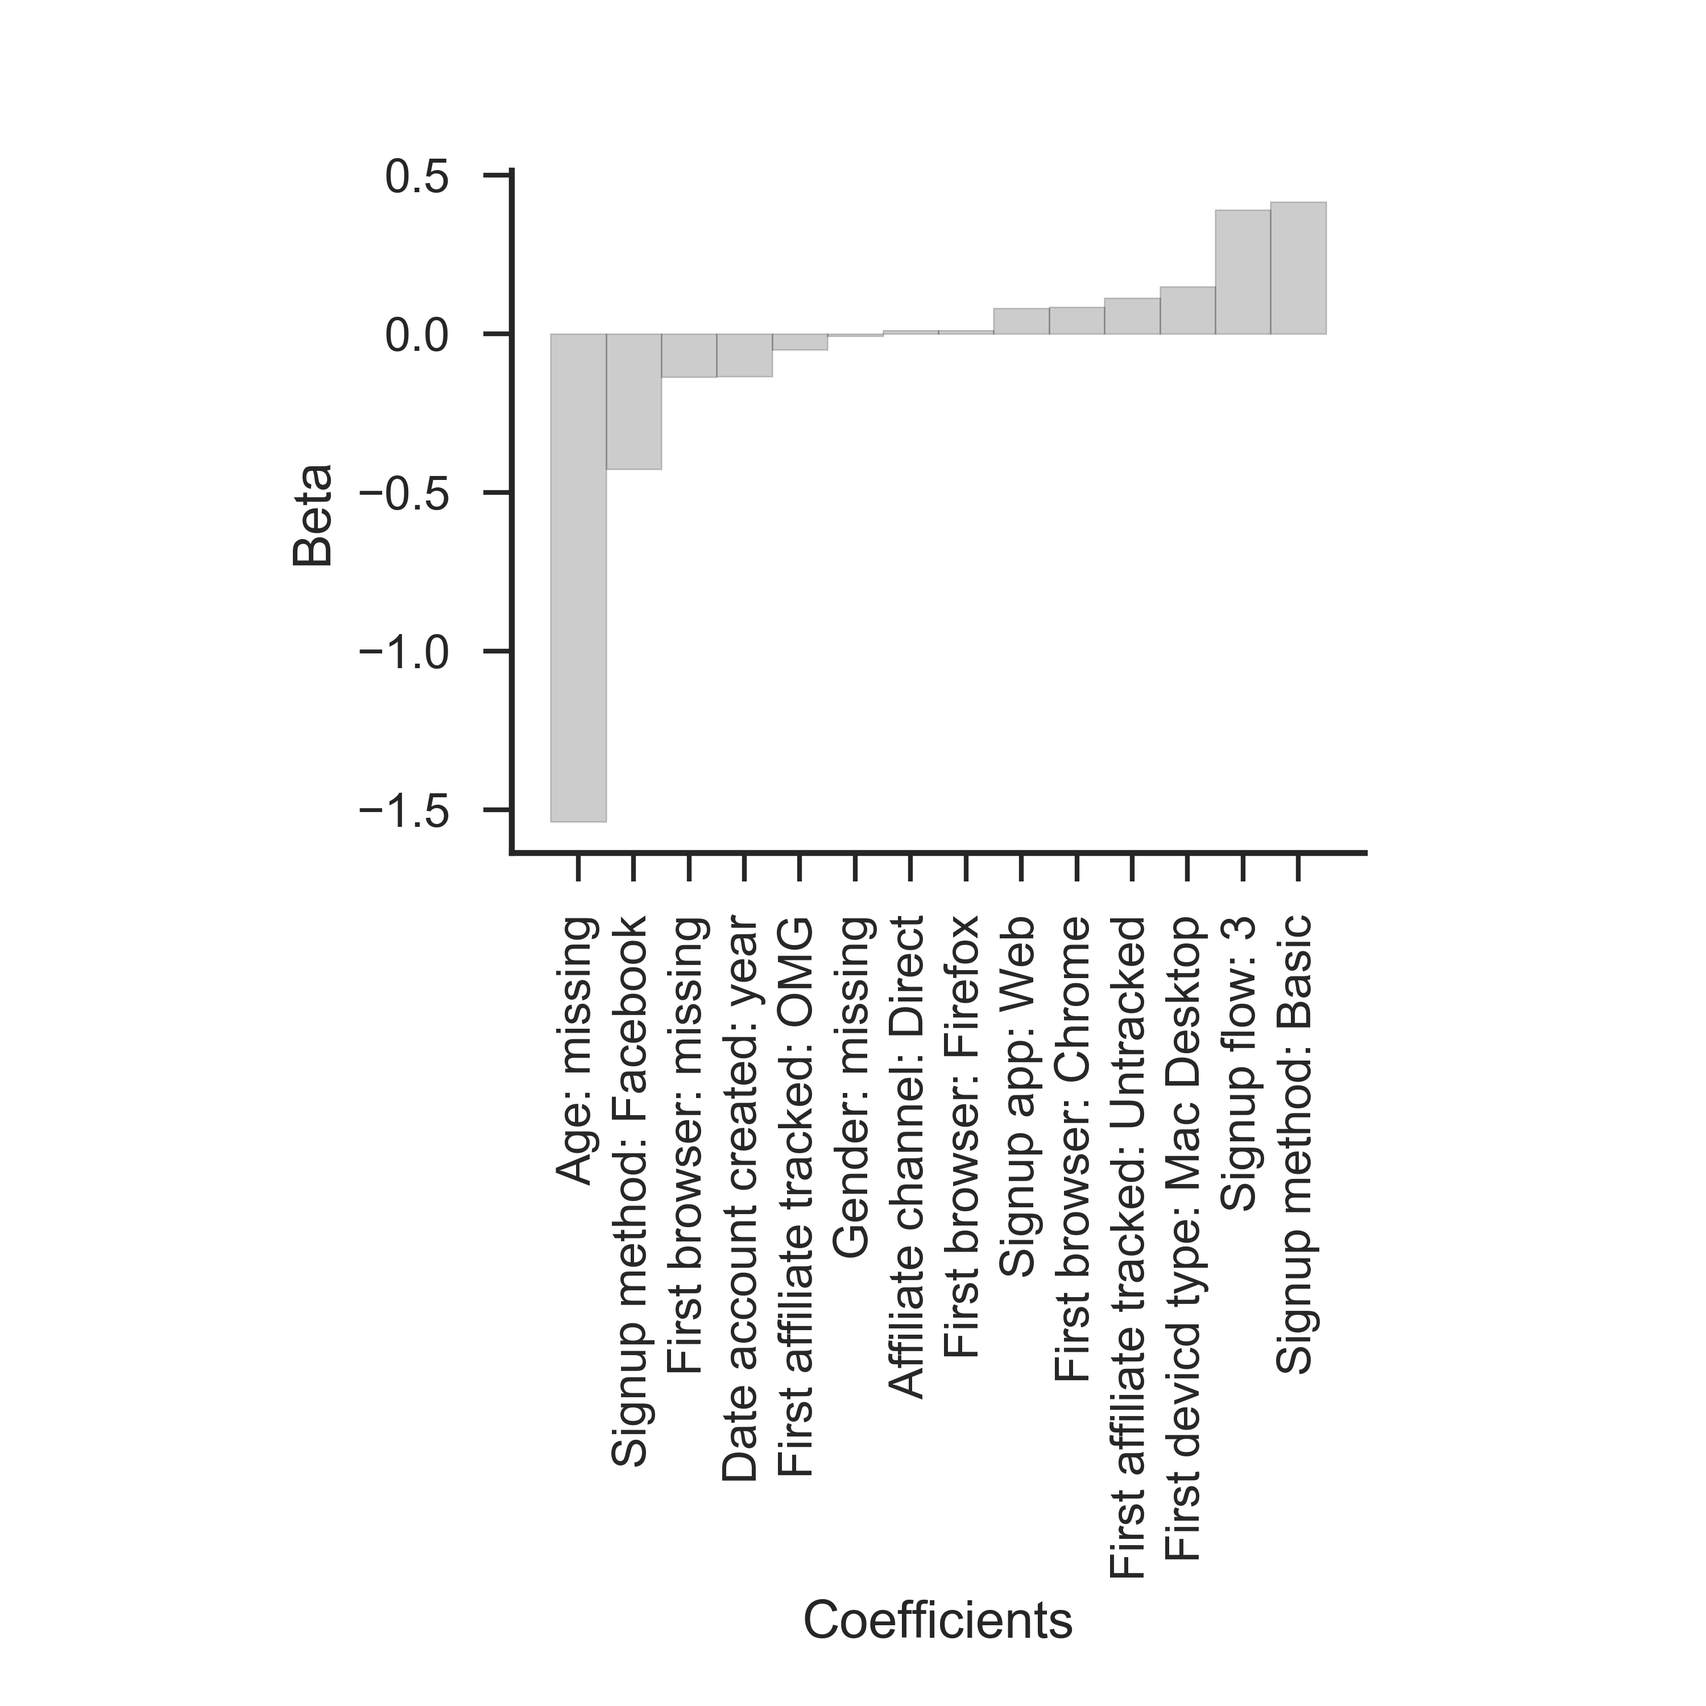
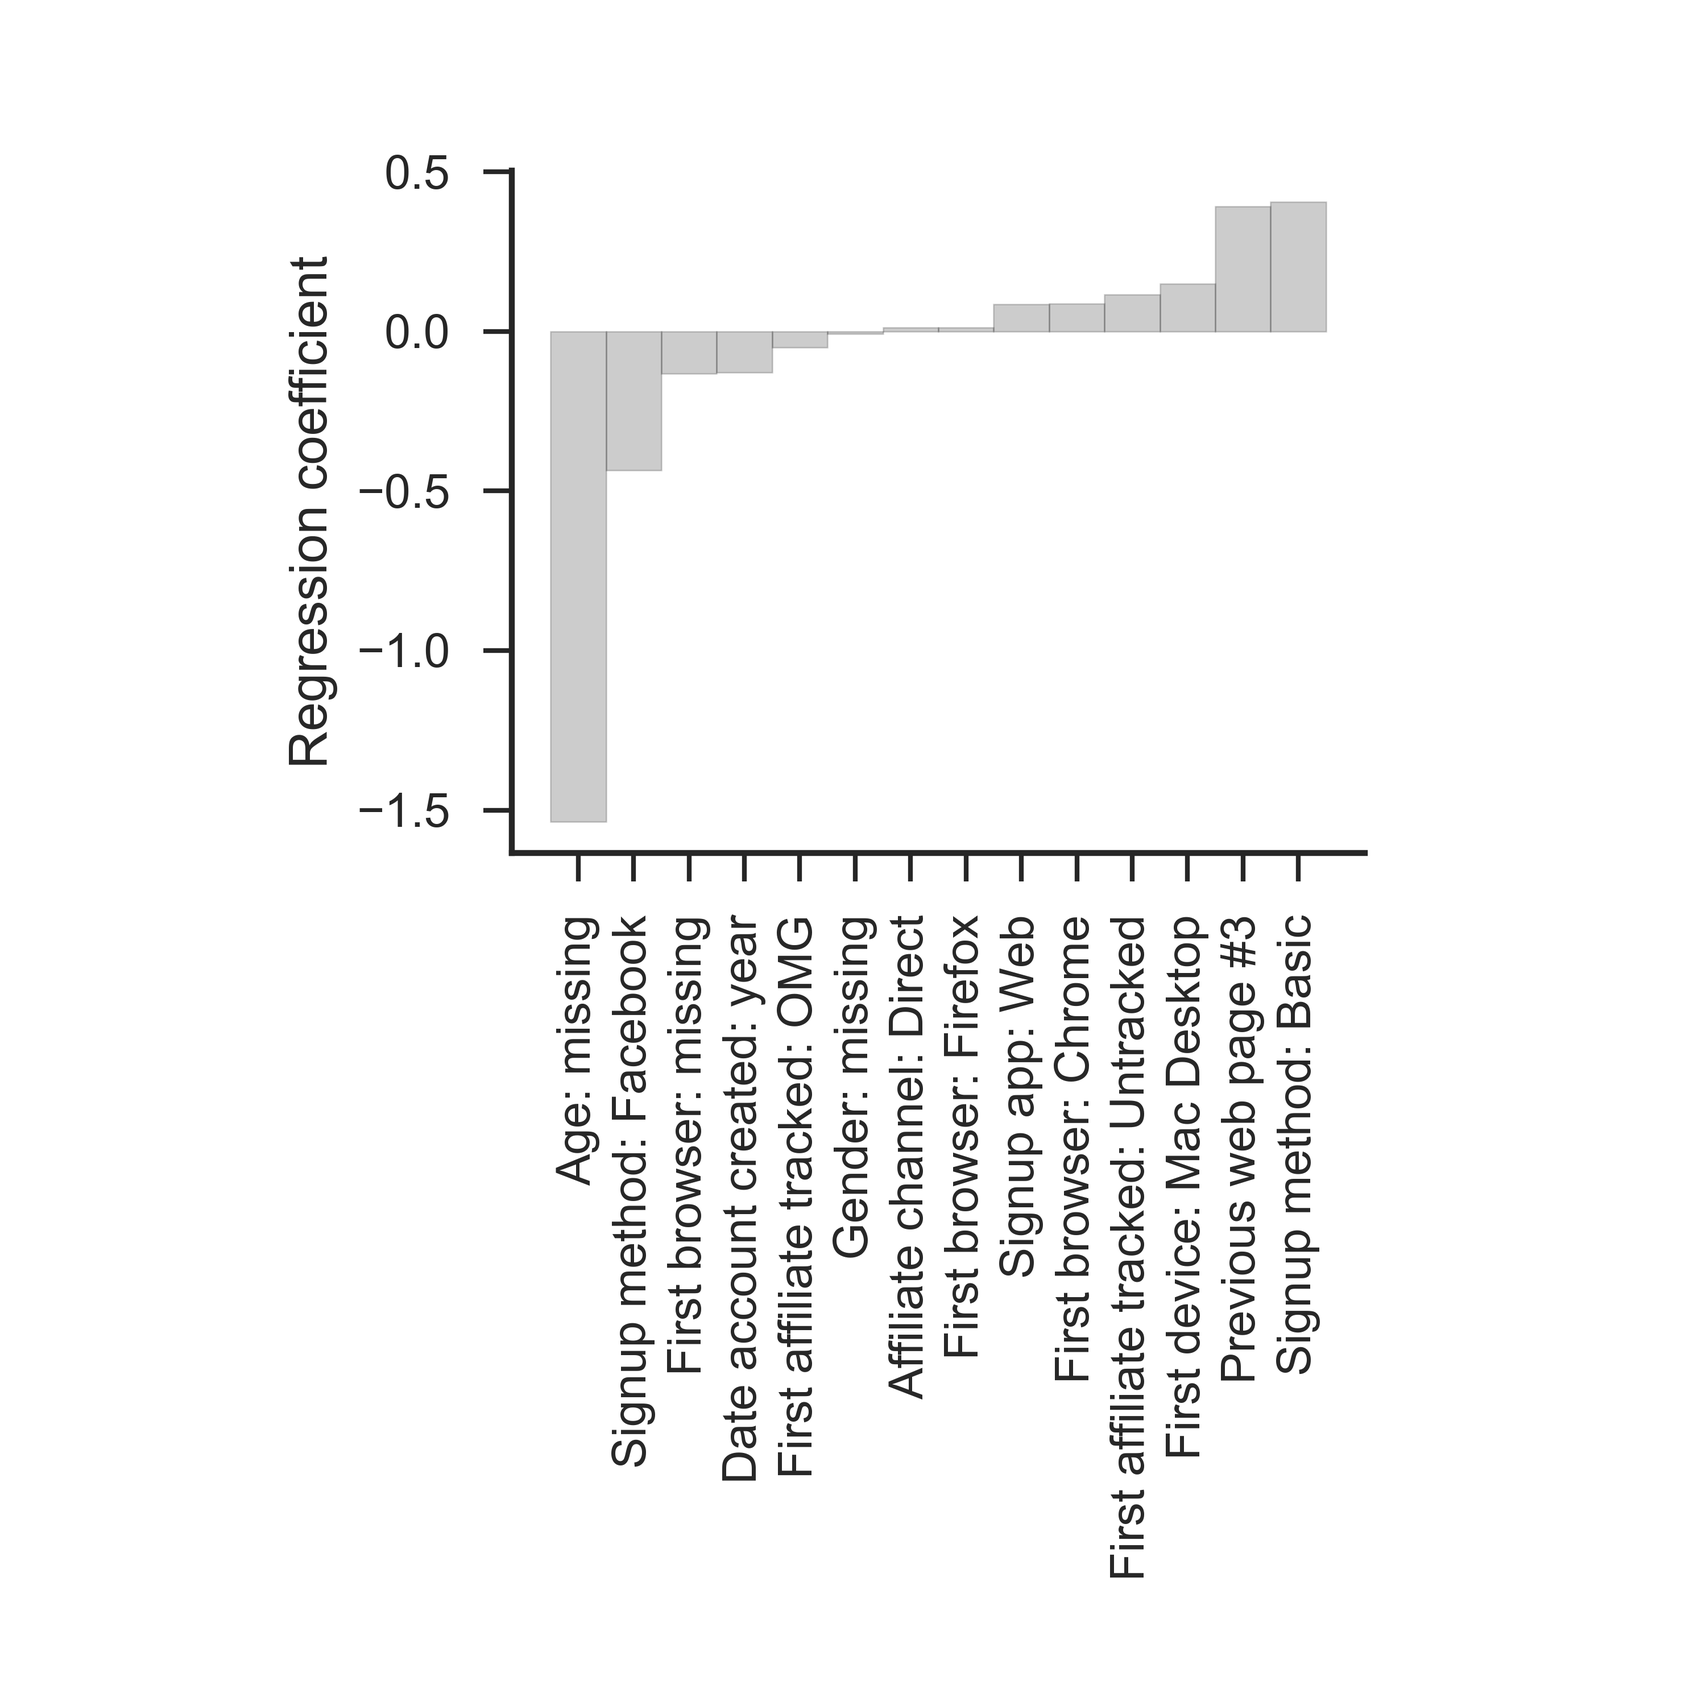
updated blog

diff --git a/_posts/2017-6-6-Kaggle-airbnb.md b/_posts/2017-6-6-Kaggle-airbnb.md
@@ -26,63 +26,53 @@ I formatted and cleaned the user information to be suitable for modeling.  I che
 For the web sessions data, I encoded each action name, type, and detail as a separate feature.  These were binary variables to indicate whether or not the user took a particular action at any time.  I also explored versions that considered the number of times a user took each action and the total time spent on each action, but found no benefit of the added information.
 
 
-# Predicting whether or not a new user will book..
+# Predicting whether a new user will book.
 
-I first trained a model to predict whether or not users placed any booking regardless of the country destination (a binary classification problem).  From a modeling perspective, this simplifies the interpretation of model fits and provide some initial intuition about which features are most important.   From a business perspective, understanding what factors predict whether a user will book can provide valuable insight for targeting potential users even in the absence of destination information.
+I first trained a model to predict whether or not users placed any booking regardless of the country destination (a binary classification problem).  To validate the models, I held out the last 10% of the training data set collected chronologically (21,345 users).  This followed the test data format which was collected immediately after the training set and ensured that predction accuracy was not inflated by using future data to predict past obsrevations.  The remaining 90% of the data was used for training.  Because the data are unbalanced, I used area under the ROC (auROC) curve for the holdout set to as an error metric to compare models.
 
-To validate the models, I held out the last 10% of the training data set collected chronologically (21,345 users).  This followed the test data format which was collected immediately after the training set and ensured that predction accuracy was not inflated by using future data to predict past obsrevations.  The remaining 90% of the data was used for training.  Because the data are unbalanced, I used area under the ROC (auROC) curve for the holdout set to as an error metric to compare models.
+For the binary classification, I used L1-regularized logistic regression because it can be trained reasonably fast, provides  interpretable coefficients about feature importance, and establishes a baseline linear model against which more complex algorithms can be compared.  The regularization term penalizes the model for higher coefficient values (in particular non-zeros) to prevent overfitting.  The regularization term was selected using 5-fold cross validation over a range of values.
 
-For the binary classification, I used L1-regularized logistic regression because it can be trained reasonably fast, provides  interpretable coefficients about feature importance, and establishes a baseline linear model against which more complex algorithms can be compared.  The L1-regularization term was selected using 5-fold cross validation over a range of values.
-
-The logistic regression model accurately predicted whether or not a user would book a destination for 71.4% of the holdout dataset, which exceeds chance (62% in the holdout set).  Accordingly, the auROC curve was 0.75.  In the interest of time, I did not attempt to bootstrap this for a p-value, but the strong performance with a reasonably large holdout set gives some confidence that the model is useful for prediction.  This was later verified by submitted results to the Kaggle website.
-
-The resulting coefficients provide insight about which users will book a destination (Figure 4). For example, users who reach Airbnb via a particular web page (actual URL concealed) or use a Mac Desktop are more likely to book a destination.  Conversely, disengaged users that failed to provide demographic information like gender and age were less likely to book.  These results could inform decisions about where to target advertising for new users or be used to evaluate the success of an ongoing campagin.  
+The logistic regression model accurately predicted whether or not a user would book a destination for 71.4% of the holdout dataset, which exceeds chance (62% in the holdout set).  Accordingly, the auROC curve was 0.75.  The resulting coefficients provide insight about which users will book a destination (Figure 4). For example, users who reach Airbnb via a particular web page (actual URL concealed) or use a Mac Desktop are more likely to book a destination.  Conversely, disengaged users that failed to provide demographic information like gender and age were less likely to book.
 
 ![Figure 4]({{ site.baseurl }}/images/beta_coefficient_histogram.png "Coefficient histogram.")
 
 
-# Predicting new booking destinations: 
+# Predicting booking destinations: 
 
-I next moved to the multiclass classification problem of predicting the actual country destination of that the users booked.  I used three algorithms with varying complexity and computational demands: one-versus-rest L1-regularized logistic regression, a boosted trees algorithm implented with XGBoost, and a multi-layer perceptron (MLP) artifical neural network implemented in with Keras. For model comparison, I used macro-averaged auROC which combines auROC for each class with equal weight regardless of the number of observations.  This ensured that my statistic was not dominated by the non-booking class.  I used confusion matrices to determine where the models were succeeding and failing. In addition, I monitored the normalized discounted cumulative gain (NDCG) score, the ranking quality metric used by Kaggle to evaluate submissions.
+I next moved to the multiclass classification problem of predicting the actual country destination of that the users booked.  I used three algorithms with varying complexity and computational demands. For model comparison, I used macro-averaged auROC which combines auROC for each class with equal weight regardless of the number of observations.  I used confusion matrices to determine where the models were succeeding and failing. I also monitored the normalized discounted cumulative gain (NDCG) score, the ranking quality metric used by Kaggle to evaluate submissions. The results are summarized at the end of this section.
 
 ## L1-regularized logistic regression
-I started with a one-versus-next L1-regularized logistic regression approach implemented in scikit-learn.  The model trains a family of logistic regression models to distinguish one class from all others, then chooses the class with the strongers probability.  Model performance is above chance as indicated by a macro auROC of X.  The confusion matrix provides some insight into where the model fails and suceeds.  The model is heavily biased to the NDF and US categories, so there is likely room for improvement.  
+I started with a one-versus-next L1-regularized logistic regression approach implemented in scikit-learn.  The model trains a family of linear classifiers to distinguish one class from all others, then chooses the class with the highest probability.  The L1-regularization model performance is above chance as indicated by a macro auROC of X.  The confusion matrix indicates that the model is heavily biased to the NDF and US categories.  
 
 ## XGBoost
-XGBoost is a tree ensembling method that learns a set of decision trees by adding new tree structures that improve a regularized objective function. Unlike logistic regression, XGBoost learns nonlinear decision bounds and is less sensitive to collinearity among features, missing values, or outliers.  The tradeoff is that the model is more complex and the complexity is reflected in an increased number of hyperparameters (e.g., number of trees, learning rate, etc).  I avoided time consuming hand tuning of hyperparameters by using randomized search with 5-fold cross validation.  
+XGBoost is a tree ensembling method that learns a set of decision trees by asking whether new tree structures will improve a regularized objective function. Unlike logistic regression, XGBoost learns nonlinear decision bounds, but relies on more hyperparameters (e.g., number of trees, learning rate, etc).  I avoided hand tuning of hyperparameters by using randomized search with 5-fold cross validation.  The resulting model  produced a notable improvement in auROC for the holdout dataset. XGBoost also provides an index of feature importance, computed as the reduction in impurity at each node averaged over all trees for each feature.  Unlike the linear model, the XGBoost model learned a nonlinear relationship between age and booking that was evident in the data.
 
-XGBoost produced significant improvements in auROC for the holdout dataset, suggesting that it learned generalizable nonlinear relationships beween the features and classes.  We can see in the confusion matrices that the improvement stems primarily from better distinguishing non-bookings and US bookings, but the model still poorly discriminates among non-US bookings.
+![Figure 5]({{ site.baseurl }}/images/xgb_feature_importance_barh.png "Age bins.")
 
-![Figure 5]({{ site.baseurl }}/images/airbnb_conf_mat.png "Confusion matrices.")
-
-XGBoost also provides an index of feature importance, computed as the reduction in impurity at each node averaged over all trees for each feature.  The results are relatively similar to the logistic regression model.  Unlike the linear model, however, age is by far the most informative feature in the dataset, suggesting that the XGBoost learned a nonlinear relationship between age and booking destination.  Indeed, the data suggest that bookings increase until ages 30-40 and then generally decline thereafter.
-
-![Figure 6]({{ site.baseurl }}/images/auROC.png "auROC histogram.")
-
-![Figure 7]({{ site.baseurl }}/images/pBook_age_bins.png "Age bins.")
-
+![Figure 6]({{ site.baseurl }}/images/pBook_age_bins.png "Age bins.")
 
 ## Neural networks: Multi-layer perceptron
-To try and improve the overall predictive accuracy, I next trained a multi-layer perceptron (MLP), a class of feedforward neural network models that learns non-linear combinations of features to transform the data into a space where they become lineary separable.  These models are very powerful, but are highly parameterized and require careful training for good results.  I wanted to test whether it could be used to outperform the boosted trees approach by learning novel combinations of features.
+Multi-layer perceptrons (MLP) are a class of feedforward neural network models that learns combinations of features to transform the data into a space where they become lineary separable.  These models are very powerful, but  highly parameterized and require careful training for good results.  I trained the model using mini-batch stochastic gradient descent implemented in Keras with a TensorFlow backend.  To efficiently select hyperparameters, I implemented a randomized search with 5-fold cross validation in parallel on a high-performance computing cluster.  The trained network outperformed both logistic regression and boosted trees on the holdout set.  This algorithm would be a great choice for situations in which high accuracy is paramount, but long training times are not an issue.  
 
-I trained the model using mini-batch stochastic gradient descent implemented in Keras with a TensorFlow backend.  To efficiently search the hyperparameter space, I implemented a randomized search with 5-fold cross validation in parallel on a high-performance computing cluster.  This allowed me to test large swaths of hyperparameter space in relatively little time (<5 hours for up to 300 samples simultaneously).  The hyperparameters included the learning rate, neurons per layer, number of hidden layers, activation functions (tanh, sigmoid, linear), dropout rate, momentum, batch size, and number of epochs.  I started by sampling a very broad range of hyperparameters, examined combinations of parameters that produced high cross-validated performance, and then gradually narrowed the search to refine the model fits.  Standard deviation over folds was used to monitor stability.
+![Figure 7]({{ site.baseurl }}/images/airbnb_conf_mat.png "Confusion matrices.")
 
-The neural network model slightly outperformed XGBoost, suggesting that it was able to learn some complex combinations of features without overfitting.  The confusion matrix again suggests slight improvements in discriminating non-bookings and US bookings, but still struggles distinguishing non-US bookings.  This algorithm would be a great choice for situations in which high accuracy is paramount, the combinations of features needed to improve performance is unclear, and long training times are not an issue.  
-
-# Final conclusions
-
-I used a variety of machine-learning approaches to predict where users will book their next destination on Airbnb and learn the features that are most predictive.  The final model was able to provided ranked predictions about where a new user would book that could be used to prioritize listings presented to users.  However, even the best multiclass model struggled to distingiush among non-US bookings and it may be necessary to collect additional user browsing information to boost the signal.  In addition to predictive power, feature selection tools revealed that age is a critical factor in whether a user would book as are the types of websites from which users reach Airbnb.  I also found that inclusion of web sessions data produced modest but reliable improvements in prediction accuracy, which would justify collecting this data to regularly updating models.
-
-For this data set, the nonlinear decision rules learned by the XGB and MLP algorithms improved performance over the linear regularized logistic regression model.  The XGB model was particularly impressive since the time necessary for fitting was quite fast even taking into accoutn the optimization of hyperparameters.  The MLP model ultimately provided the best performance, but took considerably longer to train.  The long training times were greatly reduced by parallelization on a computing cluster, making this an attractive option if a cluster is available.
-
-Using the MLP model, my final NDSG score on the Kaggle private leaderboard was 0.88209 - not too far from the winning score of 0.88697 (range = 0 to 1).  As noted on the Kaggle blog (LINK), the top models in this competition stacked and ensembled up to 15 models.  I explored one simple stacking model using predictions of the binary linear classifier as a feature for multiclass classification.  I observed a slight improvement in fitting, suggesting that additional ensembling and stacking may be a fruitful avenue to pursue in future projects.  Complex stacking of many models is often impractical in many business applications, but it may be useful for cases in which small gains in accuracy translate to substantial real-world gains.
+![Figure 8]({{ site.baseurl }}/images/auROC.png "auROC histogram.")
 
 
+# Conclusions
 
+I used a variety of machine-learning approaches to predict where users will book their next destination on Airbnb and learn the features that are most predictive.  The final model provided ranked predictions about where a new user would book that could be used to prioritize listings shown to users.  Feature selection tools revealed that age and previously visited web sites are critical factors in whether a user will book.  These results could inform decisions about where to advertise for new users or to evaluate ongoing advertising campagins.
+
+For this data set, the XGB and MLP algorithms that used nonlinear decision rules outperformed the linear model.  The XGB model was particularly impressive since the time necessary for fitting was quite fast.  The MLP model provided the best performance, but took considerably longer to train.  The long training times were greatly reduced by parallelization on a computing cluster (<5 hours total, up to 300 samples in parallel), making this an attractive option if a cluster is available.
+
+Using the MLP model, my final NDSG score on the Kaggle private leaderboard was 0.88209 - close to the winning score of 0.88697 (range = 0 to 1).  The top models in this competition stacked and ensembled up to 15 models (see interviews with the [2nd](http://blog.kaggle.com/2016/03/17/airbnb-new-user-bookings-winners-interview-2nd-place-keiichi-kuroyanagi-keiku/) and [3rd](http://blog.kaggle.com/2016/03/07/airbnb-new-user-bookings-winners-interview-3rd-place-sandro-vega-pons/) place finisheres).  I explored one simple stacking model using predictions of the binary linear classifier as a feature, which produced slight improvement in prediction accuracy. Complex stacking of many models is often impractical in many business applications, but it may be useful for cases in which small gains in accuracy translate to substantial real-world gains.
 
 
 
-http://blog.kaggle.com/2016/03/17/airbnb-new-user-bookings-winners-interview-2nd-place-keiichi-kuroyanagi-keiku/)
+
+
+
+
 
 
 
